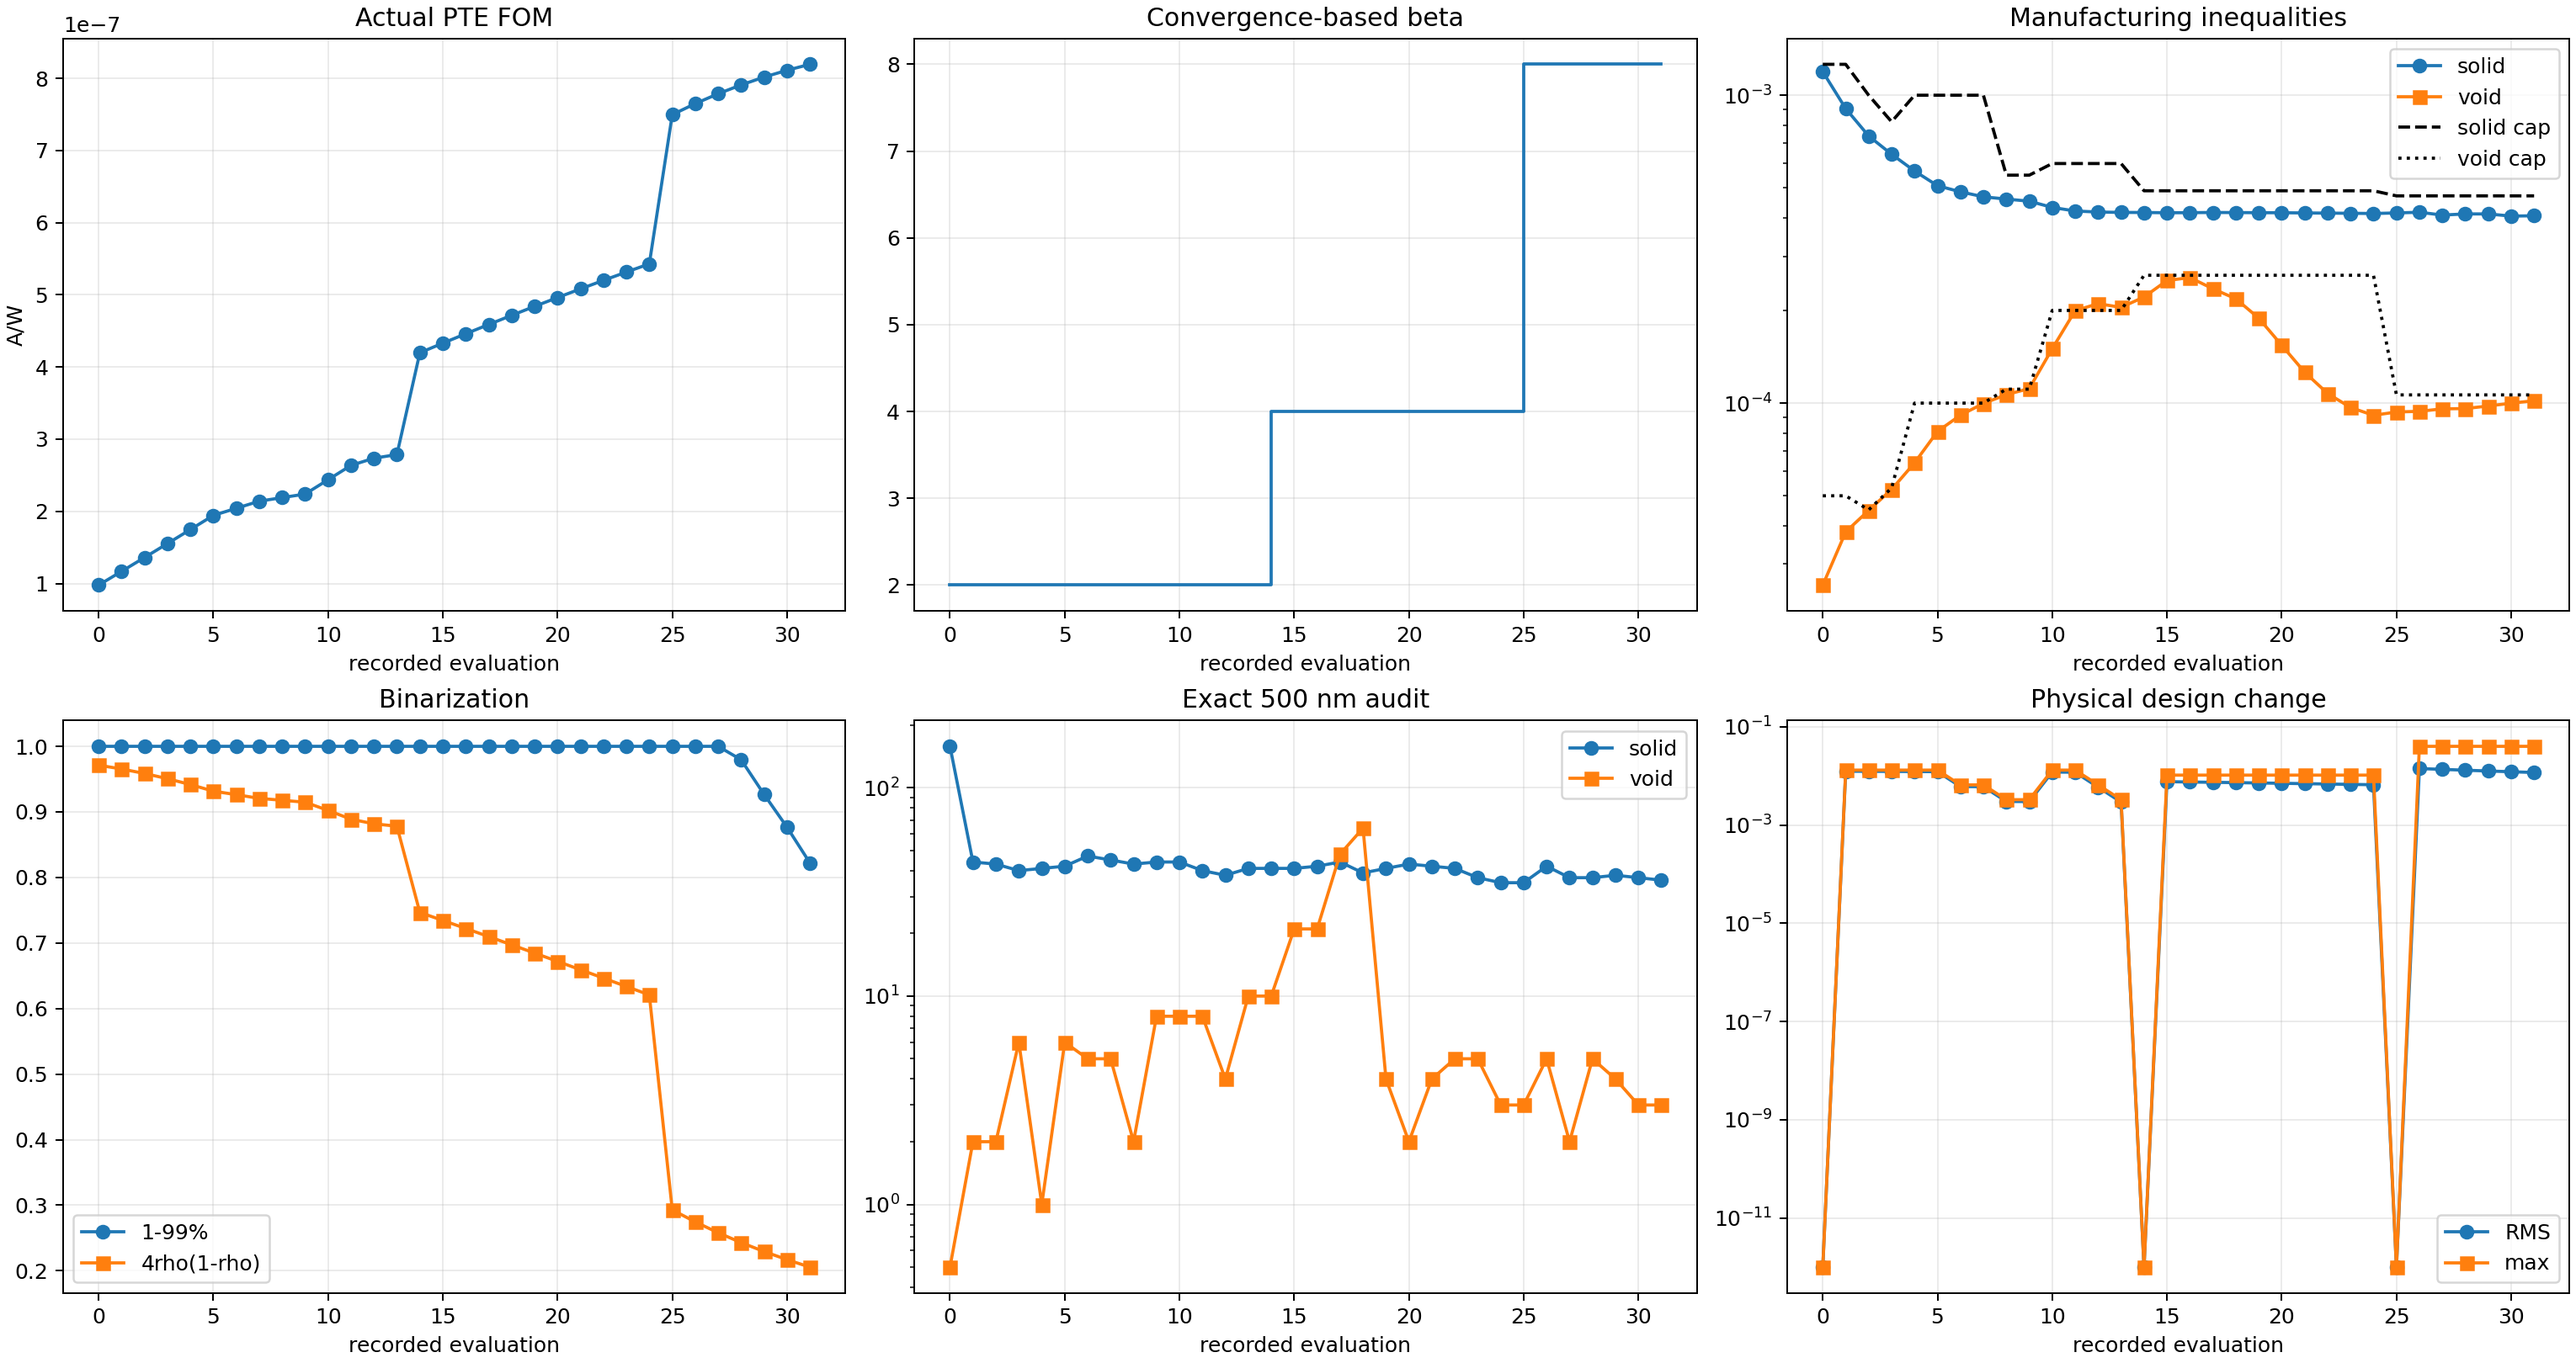
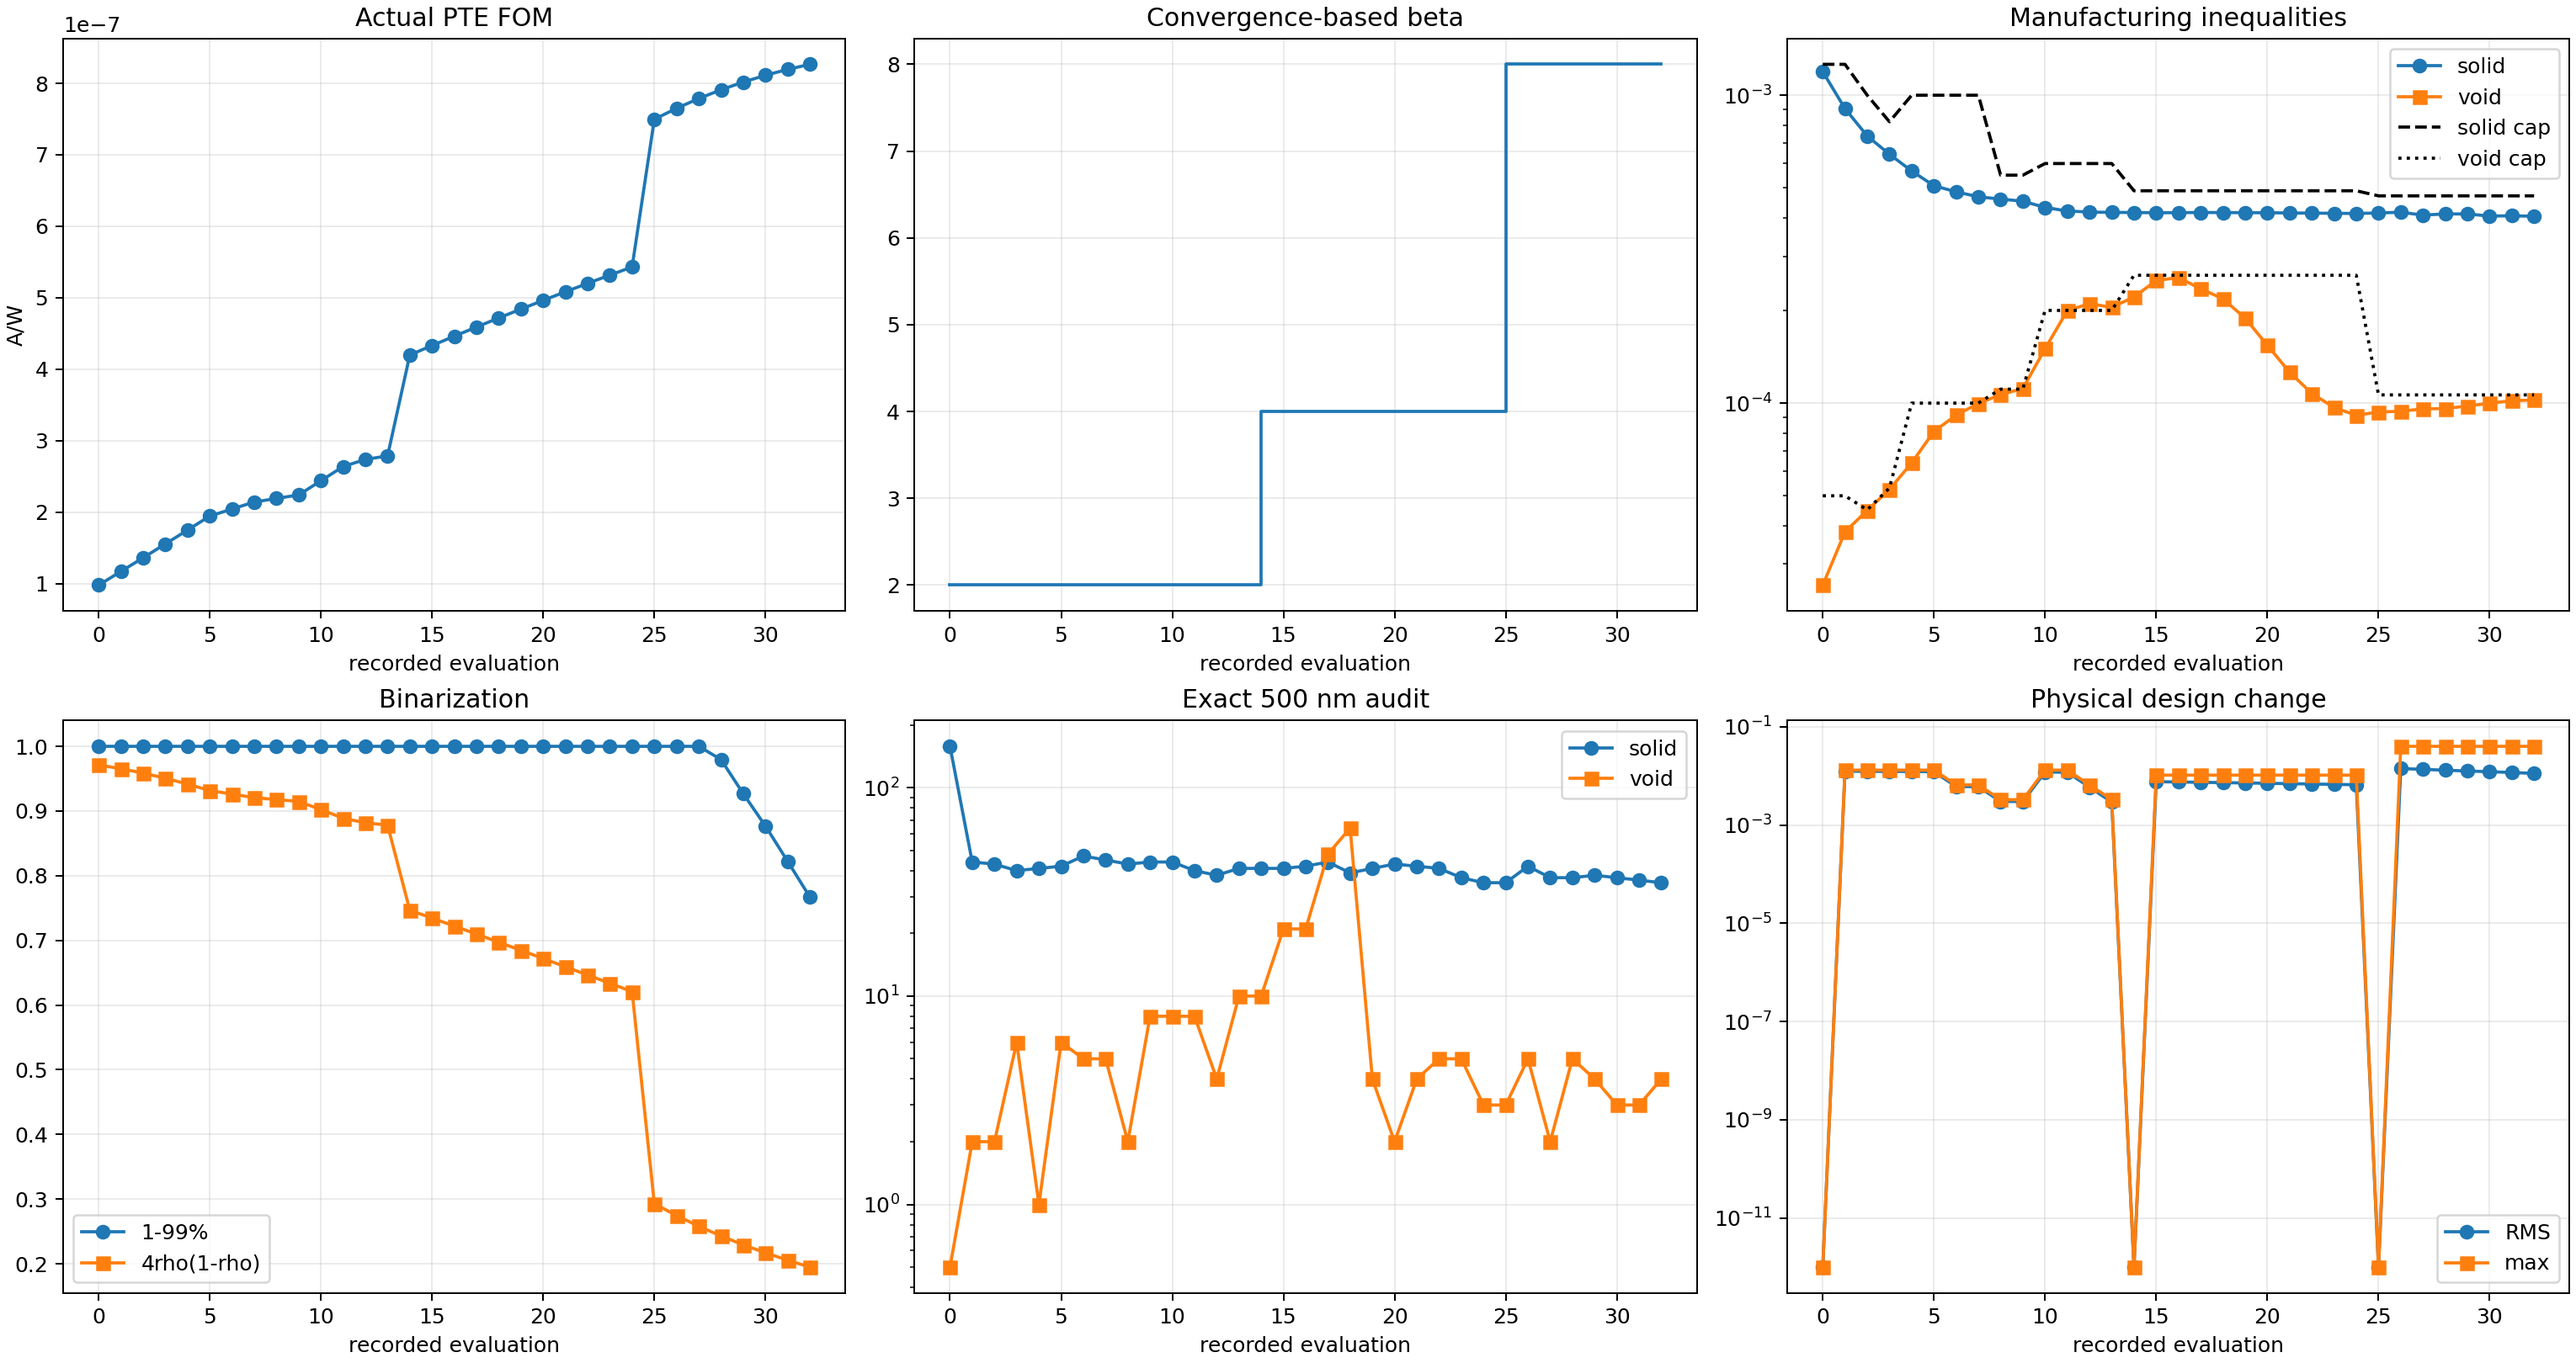
Record Run 005 run005_b008_s007_g030_accepted_mma

diff --git a/photothermal_pte/optimization_runs/run_005_lowbeta_topology_exploration_pilot/results/OPTIMIZATION_REPORT.md b/photothermal_pte/optimization_runs/run_005_lowbeta_topology_exploration_pilot/results/OPTIMIZATION_REPORT.md
@@ -2,12 +2,12 @@
 
 Status: `RUNNING_RUN005_FULL_BINARY_BETA_CONTINUATION`
 
-Current stage: beta=8, accepted stage iteration=6, global iteration=29.
+Current stage: beta=8, accepted stage iteration=7, global iteration=30.
 
 Constraint contract: `soft_disk_opening_500nm_from_iteration_zero_v5`.
 
-Actual FOM: `8.195211356752e-07 A/W`. Fixed-cap solid/void constraints: `4.059459e-04` / `1.017996e-04` with caps `4.711417e-04` / `1.063306e-04`.
+Actual FOM: `8.266093247394e-07 A/W`. Fixed-cap solid/void constraints: `4.043266e-04` / `1.023285e-04` with caps `4.711417e-04` / `1.063306e-04`.
 
-Exact 500 nm bad cells: solid `36`, void `3`. Stage convergence: `False` (recent FOM/density changes have not plateaued).
+Exact 500 nm bad cells: solid `35`, void `4`. Stage convergence: `False` (recent FOM/density changes have not plateaued).
 
 Beta advances only after the stage FOM/density plateau. The run is not complete until the projected-binary and exact 500 nm gates pass and a fresh thresholded-binary GPU/CUDA evaluation succeeds.
